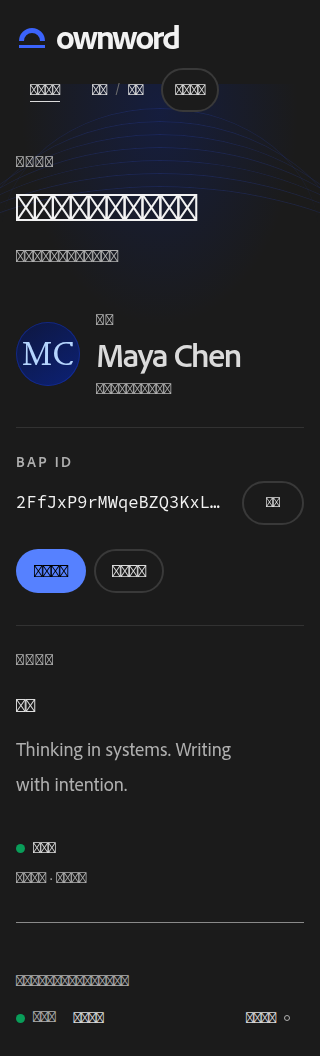
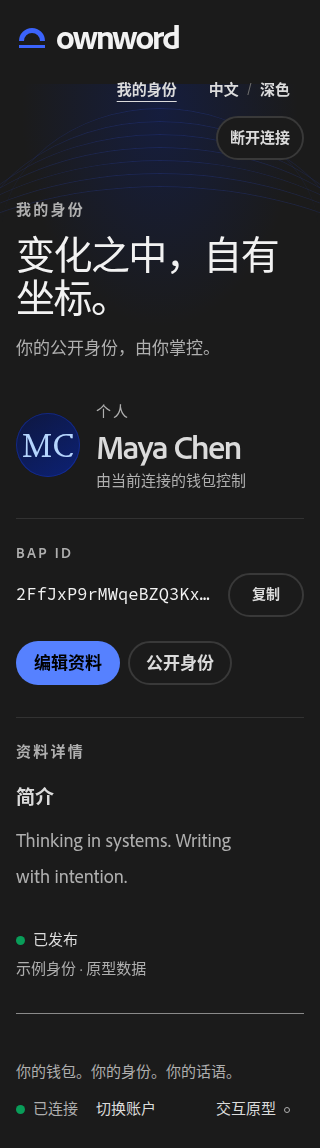
公开身份卡移除视角控件（查看链上记录/暂停旋转/重置视角/查看角度），交互改为拖拽取证 (PRD v0.1_20260911-123602)

diff --git a/copy.js b/copy.js
@@ -25,12 +25,12 @@
     createFailed: "Couldn't create identity", saveFailed: "Couldn't save profile", operationFailedBody: 'The operation did not complete. Your values are kept. Try again.',
     ready: 'Your identity is ready', readyBody: 'You now have a place to stand. Your wallet remains in control.', goIdentity: 'Go to My Identity', saved: 'Saved',
     identityIntro: 'A constant in a changing world.', identityBody: 'Your public identity, under your control.', owner: 'Controlled by your connected wallet', profileDetails: 'Profile details', account: 'Wallet account',
-    publicIntro: 'Your identity, in the open.', publicBody: 'A public view of the identity you control.', backIdentity: 'Back to My Identity', ownedByYou: 'Identity, owned by you.', rotate: 'Rotate identity', pauseRotation: 'Pause rotation', resetView: 'Reset view', angle: 'Viewing angle',
+    publicIntro: 'Your identity, in the open.', publicBody: 'A public view of the identity you control.', backIdentity: 'Back to My Identity', ownedByYou: 'Identity, owned by you.',
     save: 'Save Changes', discardTitle: 'Discard unsaved changes?', discardBody: 'Changes are not saved. Keep editing, or discard them to leave.', keepEditing: 'Keep editing', discard: 'Discard changes',
     accountChanged: 'Account changed. Pending operations were cancelled.', identityUnchanged: 'Your identity is unchanged.', current: 'Current', preferenceHint: 'Language and appearance stay on this device.', demoAccount: 'Demo account', demoData: 'Sample identity · prototype data',
     setupStep: 'Profile', reviewStep: 'Review', confirmStep: 'Confirm', doneStep: 'Ready', copyFailureOn: 'Copy failure simulation is on', privatePreview: 'Public view preview',
-    walletStatus: 'Wallet status', persistFailed: 'Preferences could not be saved on this device.', reducedMotion: 'Reduced motion follows your device preference.',
-    chainRecord: 'Chain record', identityPublication: 'Identity publication', blockHeight: 'Block height', confirmation: 'Confirmation', confirmed: 'Confirmed', pendingConfirmation: 'Awaiting block confirmation', pendingBlock: 'Awaiting block', publicationTx: 'Publication TxID', copyTx: 'Copy publication TxID', showRecord: 'View chain record', showFront: 'View identity', recordUnavailable: 'Transaction record unavailable', sampleRecord: 'Sample record · prototype data'
+    walletStatus: 'Wallet status', persistFailed: 'Preferences could not be saved on this device.',
+    chainRecord: 'Chain record', identityPublication: 'Identity publication', blockHeight: 'Block height', confirmation: 'Confirmation', confirmed: 'Confirmed', pendingConfirmation: 'Awaiting block confirmation', pendingBlock: 'Awaiting block', publicationTx: 'Publication TxID', copyTx: 'Copy publication TxID', recordUnavailable: 'Transaction record unavailable', sampleRecord: 'Sample record · prototype data'
   },
   zh: {
     connect: '连接钱包', connected: '已连接', notConnected: '未连接', connecting: '正在连接', disconnect: '断开连接', accountSwitch: '切换账户', wallet: '钱包',
@@ -56,12 +56,12 @@
     createFailed: '无法创建身份', saveFailed: '无法保存资料', operationFailedBody: '操作未完成，已保留填写内容。请重试。',
     ready: '你的身份已就绪', readyBody: '现在，你有了自己的坐标。钱包始终由你掌控。', goIdentity: '前往我的身份', saved: '已保存',
     identityIntro: '变化之中，自有坐标。', identityBody: '你的公开身份，由你掌控。', owner: '由当前连接的钱包控制', profileDetails: '资料详情', account: '钱包账户',
-    publicIntro: '让世界看到你。', publicBody: '查看你所掌控身份的公开展示。', backIdentity: '返回我的身份', ownedByYou: '身份，属于你。', rotate: '旋转身份', pauseRotation: '暂停旋转', resetView: '重置视角', angle: '查看角度',
+    publicIntro: '让世界看到你。', publicBody: '查看你所掌控身份的公开展示。', backIdentity: '返回我的身份', ownedByYou: '身份，属于你。',
     save: '保存修改', discardTitle: '放弃未保存的修改？', discardBody: '修改未保存。继续编辑，或放弃后离开。', keepEditing: '继续编辑', discard: '放弃修改',
     accountChanged: '账户已切换，进行中的操作已取消。', identityUnchanged: '身份未改变。', current: '当前', preferenceHint: '语言与主题偏好保存在此设备。', demoAccount: '演示账户', demoData: '示例身份 · 原型数据',
     setupStep: '资料', reviewStep: '核对', confirmStep: '确认', doneStep: '就绪', copyFailureOn: '已开启复制失败模拟', privatePreview: '公开展示预览',
-    walletStatus: '钱包状态', persistFailed: '无法在此设备保存偏好。', reducedMotion: '动画遵循设备的减少动态效果设置。',
-    chainRecord: '链上记录', identityPublication: '身份发布记录', blockHeight: '区块高度', confirmation: '确认状态', confirmed: '已确认', pendingConfirmation: '等待区块确认', pendingBlock: '等待入块', publicationTx: '发布交易 TxID', copyTx: '复制发布交易 TxID', showRecord: '查看链上记录', showFront: '查看身份', recordUnavailable: '暂无交易记录', sampleRecord: '示例记录 · 原型数据'
+    walletStatus: '钱包状态', persistFailed: '无法在此设备保存偏好。',
+    chainRecord: '链上记录', identityPublication: '身份发布记录', blockHeight: '区块高度', confirmation: '确认状态', confirmed: '已确认', pendingConfirmation: '等待区块确认', pendingBlock: '等待入块', publicationTx: '发布交易 TxID', copyTx: '复制发布交易 TxID', recordUnavailable: '暂无交易记录', sampleRecord: '示例记录 · 原型数据'
   }
   };
   const api = {en: words.en, zh: words.zh, locales: ['en', 'zh'], keys: Object.keys(words.en)};

diff --git a/components.jsx b/components.jsx
@@ -120,7 +120,6 @@ function Identifier({id, t, failCopy = false, label = 'BAP ID', copyLabel = 'cop
 }
 function IdentityCard({profile, id, t, failCopy, transaction, rotating, setRotating, angle, setAngle}) {
   const drag = React.useRef(null);
-  const stage = React.useRef(null);
   const [reducedMotion, setReducedMotion] = React.useState(() => matchMedia('(prefers-reduced-motion: reduce)').matches);
   React.useEffect(() => {
     const query = matchMedia('(prefers-reduced-motion: reduce)');
@@ -135,7 +134,7 @@ function IdentityCard({profile, id, t, failCopy, transaction, rotating, setRotat
   // The back face is only exposed while the card is turned past 90 degrees;
   // auto-rotation keeps the front in the accessibility tree.
   const back = normalized > 90 && normalized < 270;
-  return <div className="identity-stage" ref={stage}>
+  return <div className="identity-stage">
     <div className="identity-object" onPointerDown={e => {if (e.target.closest('button')) return; drag.current = {x: e.clientX, angle}; setRotating(false); e.currentTarget.setPointerCapture(e.pointerId);}} onPointerMove={e => {if (drag.current) setAngle(drag.current.angle + (e.clientX - drag.current.x) * .35);}} onPointerUp={() => {drag.current = null;}} onPointerCancel={() => {drag.current = null;}}>
       <div className={`identity-sculpture ${rotating ? 'rotating' : ''}`} data-face={back ? 'back' : 'front'} style={{'--angle': `${angle}deg`}}>
         <div className="plate-depth" aria-hidden="true"></div>
@@ -158,16 +157,6 @@ function IdentityCard({profile, id, t, failCopy, transaction, rotating, setRotat
       </div>
     </div>
     <div className="object-shadow" aria-hidden="true"></div>
-    <div className="card-actions"><Button data-action="toggle-face" onClick={() => {
-      const next = !back;
-      setRotating(false); setAngle(next ? 180 : 0);
-      // The revealed face sits earlier in the DOM, so move focus into it;
-      // otherwise forward-Tab sends keyboard users around the whole page.
-      if (next) requestAnimationFrame(() => stage.current?.querySelector('.plate-back [data-action="copy-tx"]')?.focus());
-    }}>{t(back ? 'showFront' : 'showRecord')}</Button></div>
-    <div className="rotation-controls">{!reducedMotion && <Button data-action="toggle-rotation" onClick={() => setRotating(!rotating)} aria-pressed={rotating}>{t(rotating ? 'pauseRotation' : 'rotate')}</Button>}<Button variant="quiet" data-action="reset-view" onClick={() => {setRotating(false); setAngle(0);}}>{t('resetView')}</Button></div>
-    {reducedMotion && <p className="hint" data-reduced-motion="true">{t('reducedMotion')}</p>}
-    <label className="rotation-label">{t('angle')}<input aria-label={t('angle')} type="range" min="-180" max="180" value={angle} onChange={e => {setRotating(false); setAngle(+e.target.value);}} /></label>
     <div className="public-copy"><Identifier id={id} t={t} failCopy={failCopy} /></div>
   </div>;
 }

diff --git a/app.css b/app.css
@@ -170,9 +170,6 @@ main { position: relative; width: 100%; max-width: 1280px; margin: 0 auto; paddi
 .plate-foot { margin-top: var(--s2-spacing-400); font-size: var(--s2-font-size-50); color: var(--s2-gray-700); }
 .plate-foot span:last-child { letter-spacing: .15em; }
 .object-shadow { margin: 0 auto var(--s2-spacing-200); width: 70%; height: 12px; border-radius: 50%; background: color-mix(in srgb, var(--s2-gray-800) 16%, transparent); filter: blur(12px); }
-.rotation-controls { display: flex; justify-content: center; flex-wrap: wrap; gap: var(--s2-spacing-100); }
-.rotation-label { display: flex; justify-content: center; align-items: center; gap: var(--s2-spacing-200); margin-top: var(--s2-spacing-100); font-size: var(--s2-font-size-75); color: var(--s2-gray-700); }
-.rotation-label input { width: 120px; min-height: 44px; accent-color: var(--s2-blue-900); }
 .public-copy { max-width: 500px; margin-inline: auto; }
 .public-copy .identifier { padding: var(--s2-spacing-200) 0; border: 0; }
 .public-back { display: flex; justify-content: center; margin-top: var(--s2-spacing-200); }
@@ -304,7 +301,6 @@ main { position: relative; width: 100%; max-width: 1280px; margin: 0 auto; paddi
 .chain-facts dd { margin: 0; font-size: var(--s2-font-size-200); font-weight: 600; }
 .plate-back .identifier { margin-top: auto; }
 .plate-back .plate-foot { margin-top: var(--s2-spacing-300); }
-.card-actions { display: flex; justify-content: center; margin-top: var(--s2-spacing-400); }
 @media (max-width: 480px) {
   .chain-facts { grid-template-columns: minmax(0, 1fr); }
 }

diff --git a/check-browser.py b/check-browser.py
@@ -77,6 +77,25 @@ def click_action(name):
     settle()
     call('click', f'[data-action="{name}"]')
 
+def drag_card(dx, steps=8):
+    """Turn the 3D card by dragging it, the way a visitor does.
+
+    The card turns 0.35 degrees per horizontal pixel, so +320px crosses the
+    90-degree mark and exposes the chain record. Pointer capture keeps the
+    handler receiving moves after the cursor leaves the card box.
+    """
+    js('document.querySelector(".identity-object").scrollIntoView({block: "center", behavior: "instant"})')
+    time.sleep(0.05)
+    settle()
+    center = js('(()=>{const r=document.querySelector(".identity-object").getBoundingClientRect();return [Math.round(r.x + r.width / 2), Math.round(r.y + r.height / 2)]})()')
+    call('mouse', 'move', center[0], center[1])
+    call('mouse', 'down')
+    for step in range(1, steps + 1):
+        call('mouse', 'move', center[0] + round(dx * step / steps), center[1])
+        time.sleep(0.04)
+    call('mouse', 'up')
+    time.sleep(0.3)
+
 def state(attribute):
     return f'document.querySelector("main").dataset.{attribute}'
 
@@ -399,7 +418,7 @@ try:
     call('focus', '.dome'); call('press', 'Enter'); time.sleep(0.3)
     expect('document.querySelector(".dome").dataset.lit === "true" && document.querySelector(".dome").style.getPropertyValue("--light-x") === ""', 'Reduced motion shows a static centred light instead')
     click_action('public'); wait_page('public')
-    expect('!document.querySelector("[data-action=toggle-rotation]") && !!document.querySelector("[data-reduced-motion]")', 'Reduced motion replaces the rotation toggle with an explanation')
+    expect('!document.querySelector(".rotation-controls, .rotation-label, .card-actions")', 'The 3D card ships without viewer controls')
     expect('!document.querySelector(".identity-sculpture").classList.contains("rotating")', 'Reduced motion stops automatic 3D rotation')
     expect('getComputedStyle(document.querySelector(".identity-sculpture")).animationDuration === "1e-05s"', 'Reduced motion shortens decorative animation')
     click_action('back-identity'); wait_page('identity')
@@ -407,21 +426,16 @@ try:
     click_action('public'); wait_page('public')
     inspect('public', True)
     expect('document.querySelector(".identity-sculpture").classList.contains("rotating")', 'Public Identity rotates')
-    click_action('toggle-rotation')
-    call('focus', '.rotation-label input'); call('press', 'End')
-    expect('document.querySelector(".identity-sculpture").style.getPropertyValue("--angle") === "180deg"', '3D viewing angle controllable')
+    drag_card(320)
+    expect('parseFloat(document.querySelector(".identity-sculpture").style.getPropertyValue("--angle")) > 90 && !document.querySelector(".identity-sculpture").classList.contains("rotating")', 'Dragging the card turns it past 90 degrees and stops the rotation')
     expect('document.querySelector(".identity-sculpture").dataset.face === "back" && !document.querySelector(".plate-back").hasAttribute("inert")', 'Turning past 90 degrees exposes the chain record face')
     audit_state('chain-record-face')
     expect('document.querySelector(".plate-front").hasAttribute("inert") && document.querySelector(".plate-front").getAttribute("aria-hidden") === "true"', 'Only one card face stays in the accessibility tree')
     expect('!!document.querySelector(".plate-back [data-chain=block]").textContent.trim() && !!document.querySelector(".plate-back [data-chain=confirmation]").textContent.trim()', 'Chain record shows block height and confirmation state')
     click_action('copy-tx')
     wait_until('document.querySelector("[data-copy-target=tx]")?.dataset.copyFeedback === "copied"', 'Publication TxID copy works', diagnostic='(document.querySelector("[data-copy-target=tx]")||{}).dataset.copyFeedback')
-    click_action('toggle-face')
-    expect('document.querySelector(".identity-sculpture").dataset.face === "front"', 'Flip control returns to the identity face')
-    click_action('toggle-face'); time.sleep(0.3)
-    expect('document.querySelector(".identity-sculpture").dataset.face === "back" && document.activeElement.dataset.action === "copy-tx"', 'Flip control reveals the chain record and moves focus into it')
-    click_action('toggle-face')
-    click_action('reset-view')
+    drag_card(-320)
+    expect('document.querySelector(".identity-sculpture").dataset.face === "front" && !document.querySelector(".plate-front").hasAttribute("inert")', 'Dragging the card back returns the identity face')
     click_action('back-identity'); click_action('edit')
     call('fill', '#profile-name', 'Maya Revised')
     click_action('back')
